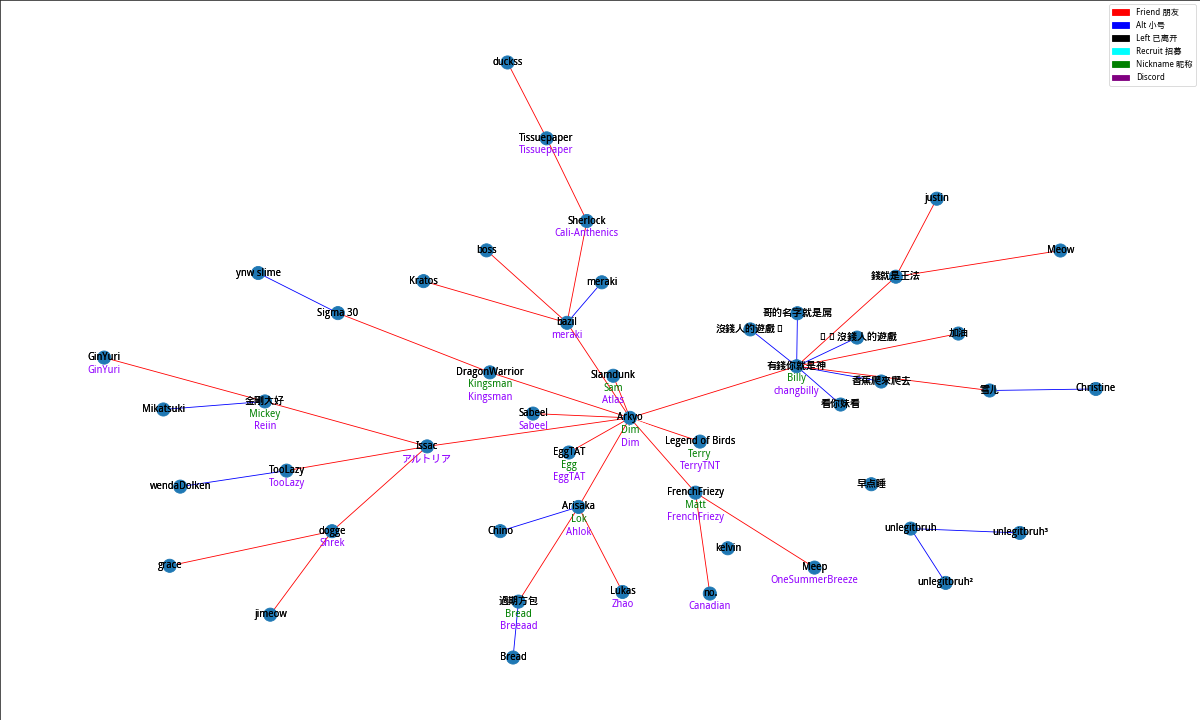
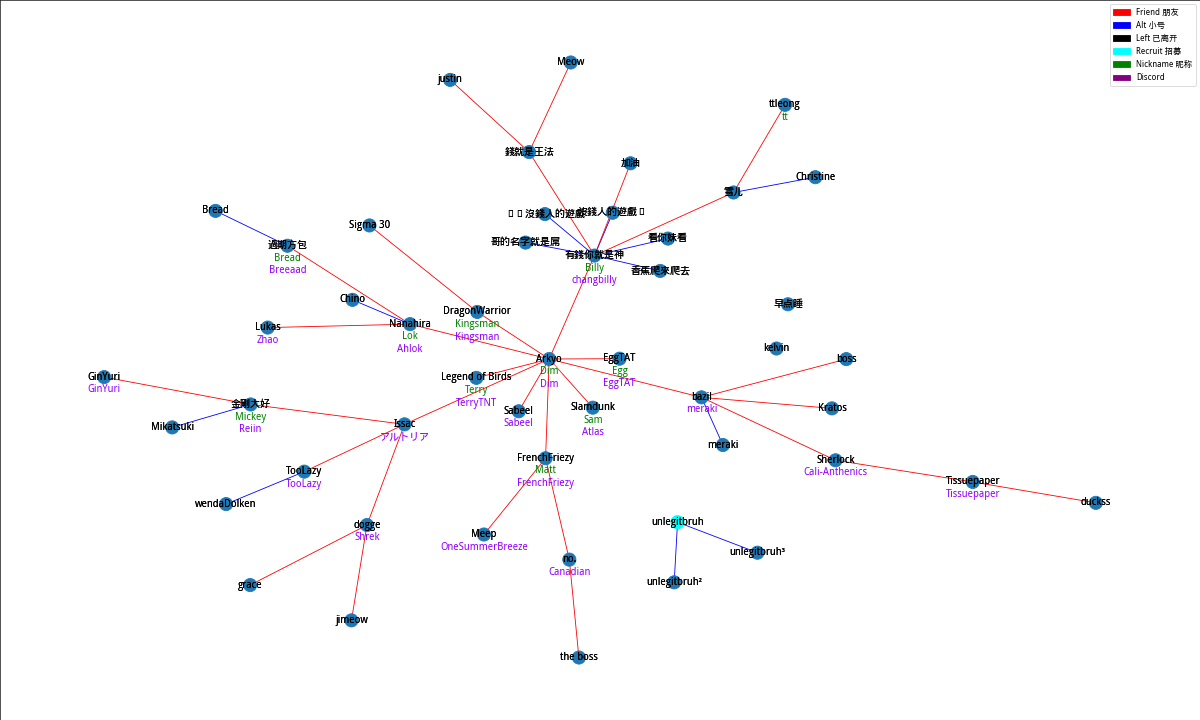
Fix relation.py

diff --git a/relation/relation.py b/relation/relation.py
@@ -88,7 +88,7 @@ add_fd('Issac', 'dogge', discord='Shrek')
 add_fd('bazil', 'Kratos')
 add_alt('金剛大好', 'Mikatsuki')
 add_fd('dogge', 'grace')
-add_alt('Arisaka', 'Chino')
+add_alt('Nanahira', 'Chino')
 add_alt('過期方包', 'Bread')
 # add_left('Sigma 30', 'Epic')
 add_fd('Arkyo', 'Sabeel', discord='Sabeel')
@@ -104,7 +104,7 @@ add_fd('dogge', 'jimeow')
 add_alt('雪儿', 'Christine')
 add_fd('Sherlock', 'Tissuepaper', discord='Tissuepaper')
 add_fd('FrenchFriezy', 'Meep', discord='OneSummerBreeze')
-add_unknown('unlegitbruh', False)
+add_unknown('unlegitbruh', True)
 add_alt('unlegitbruh', 'unlegitbruh²')
 add_alt('unlegitbruh', 'unlegitbruh³')
 add_fd('Tissuepaper', 'duckss')
